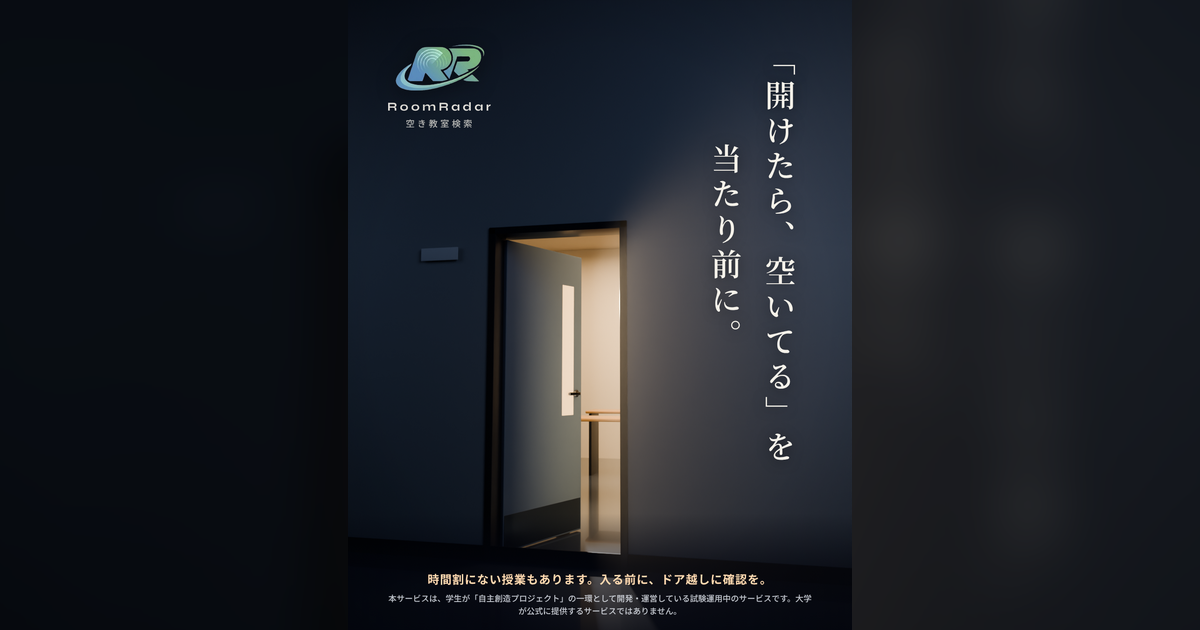
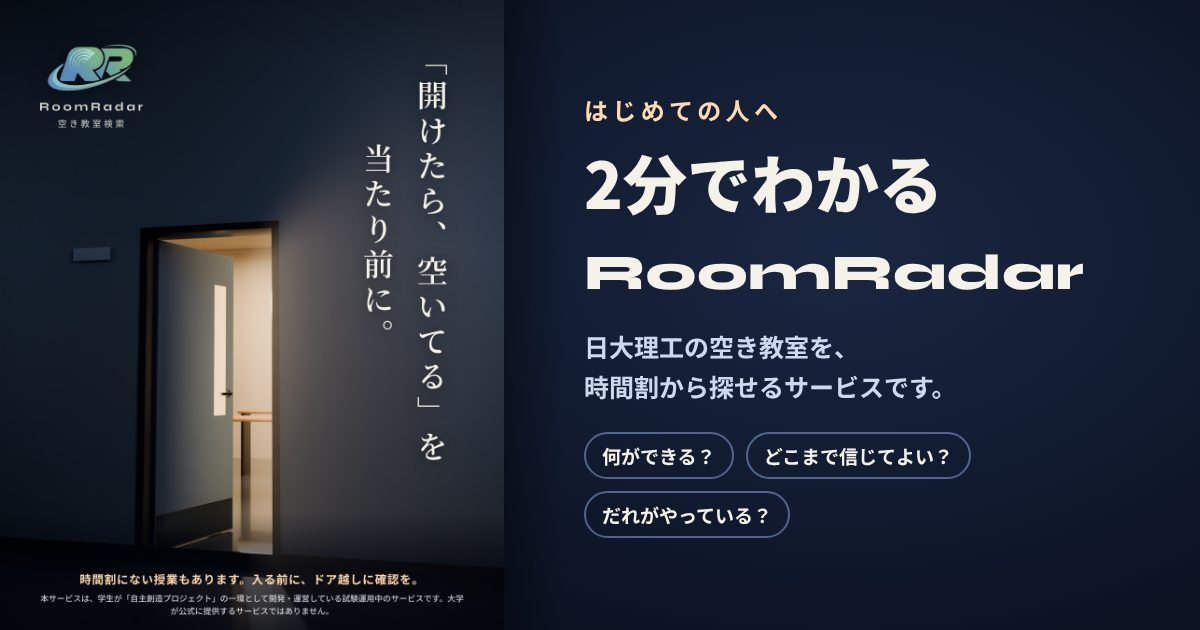
紹介ページの共有画像を A 案（左に扉の画像、右に「はじめての人へ／2分でわかる RoomRadar」）に差し替える（作業ブランチ）
Claude-Session: https://claude.ai/code/session_01UHYxsu5FAgHywruL1DhtZn

diff --git a/intro.html b/intro.html
@@ -24,10 +24,10 @@
 <meta property="og:url" content="https://nu-roomradar.github.io/nust-room-search/intro.html">
 <meta property="og:title" content="RoomRadar の紹介 — 日大理工の空き教室検索（学生開発・試験運用中）">
 <meta property="og:description" content="時間割をもとに、いま授業のない教室を一覧で出します。本サービスは、学生が「自主創造プロジェクト」の一環として開発・運営している試験運用中のサービスです。大学が公式に提供するサービスではありません。">
-<meta property="og:image" content="https://nu-roomradar.github.io/nust-room-search/assets/lp/og-image.png">
+<meta property="og:image" content="https://nu-roomradar.github.io/nust-room-search/assets/lp/og-intro.png">
 <meta property="og:image:width" content="1200">
 <meta property="og:image:height" content="630">
-<meta property="og:image:alt" content="RoomRadar 日大理工の空き教室が、開いた瞬間わかる。試験運用中のサービスです（大学が公式に提供するサービスではありません）">
+<meta property="og:image:alt" content="はじめての人へ 2分でわかる RoomRadar。日大理工の空き教室を、時間割から探せるサービスです。画像は「開けたら、空いてる」を当たり前に。本サービスは、学生が「自主創造プロジェクト」の一環として開発・運営している試験運用中のサービスです。大学が公式に提供するサービスではありません。">
 <meta name="twitter:card" content="summary_large_image">
 <link rel="preconnect" href="https://fonts.googleapis.com">
 <link rel="preconnect" href="https://fonts.gstatic.com" crossorigin>
